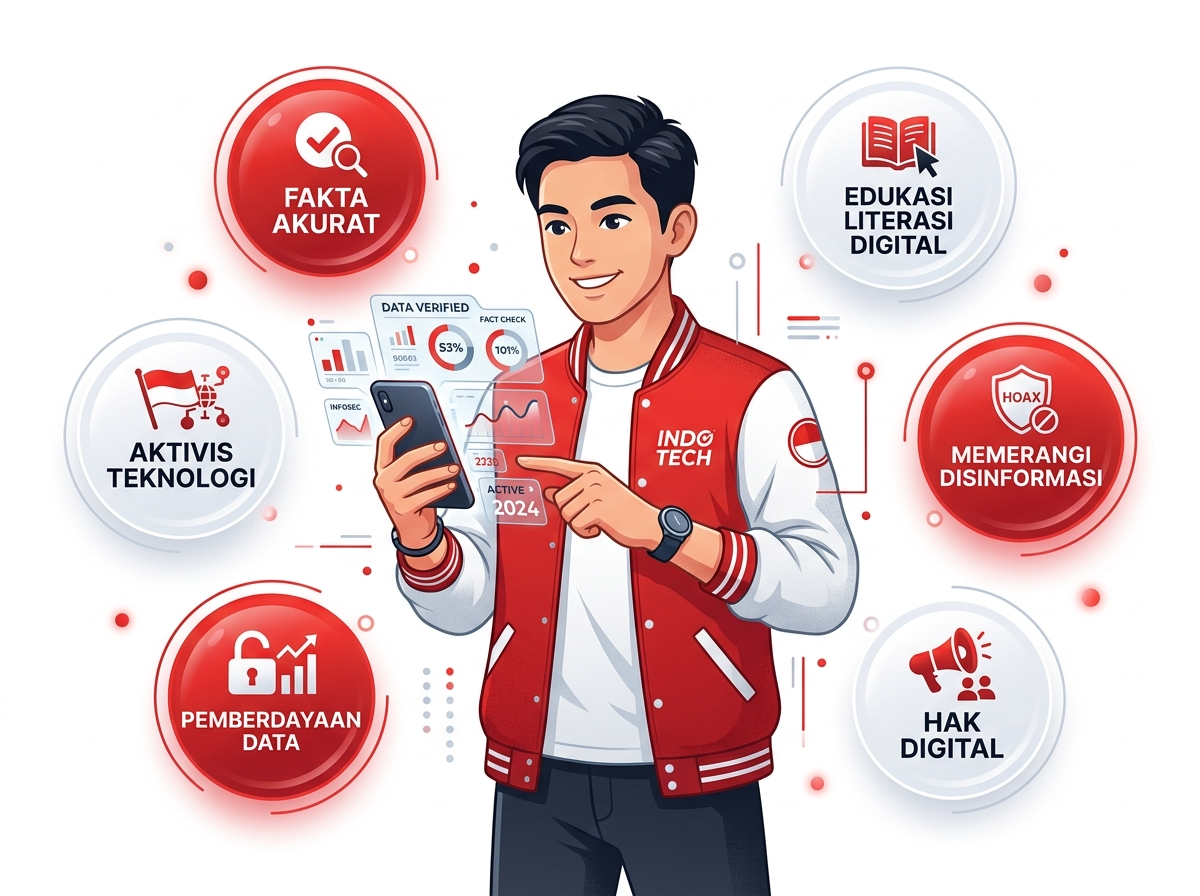
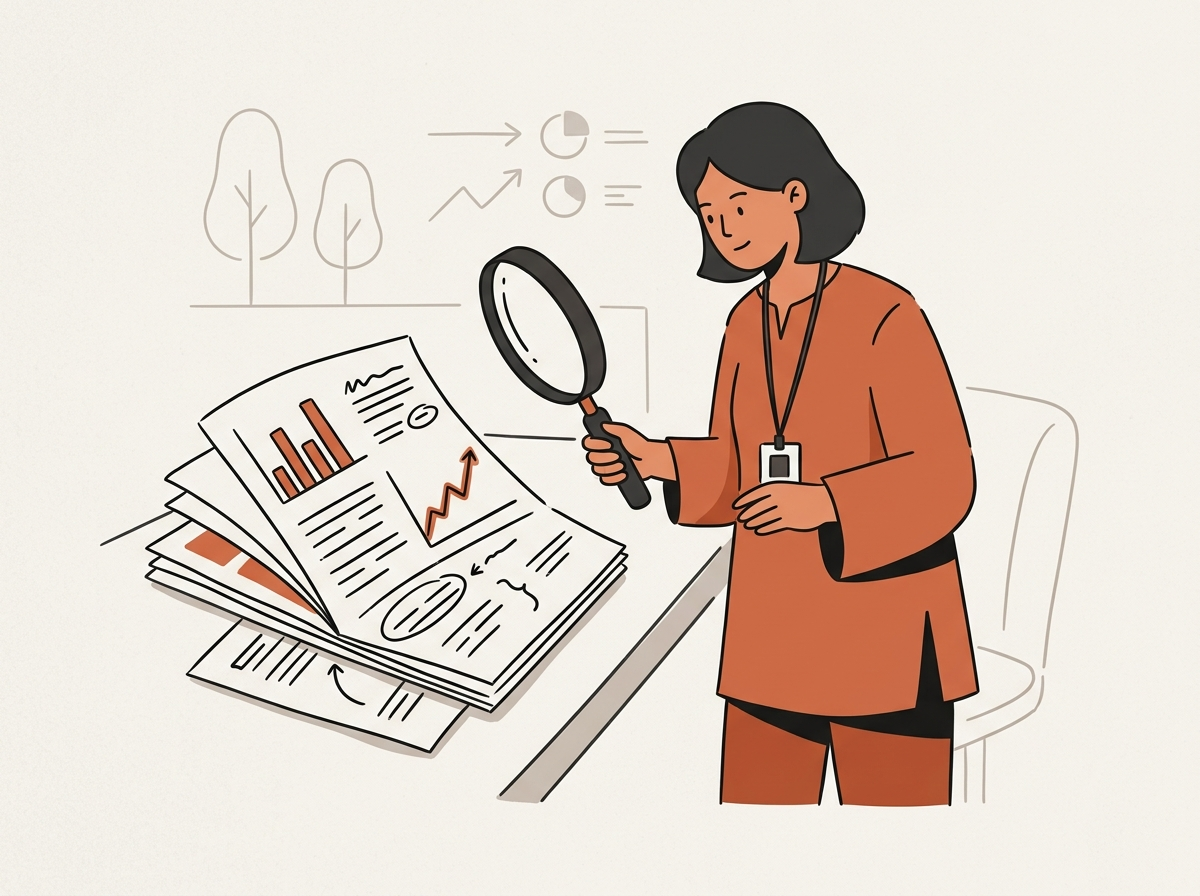
Update Hero Section with smooth 2D flat line-art cartoon doodle illustration in WIUI style

diff --git a/src/components/LandingIntro.jsx b/src/components/LandingIntro.jsx
@@ -1,8 +1,7 @@
 import React, { useState } from 'react';
 import { 
   ArrowRight, CheckCircle2, Database, Brain, FileCheck, 
-  HelpCircle, ChevronDown, ChevronUp, AlertCircle, ShieldCheck,
-  Terminal, Search, FileSpreadsheet, ExternalLink, Play
+  HelpCircle, ChevronDown, ChevronUp, Play
 } from 'lucide-react';
 
 export default function LandingIntro({ onGoToStudio, onOpenPresets }) {
@@ -156,88 +155,28 @@ export default function LandingIntro({ onGoToStudio, onOpenPresets }) {
 
           </div>
 
-          {/* RIGHT COLUMN: PURE VECTOR GRAPHIC DESIGN INTERACTIVE FACT-CHECK WIDGET (NO AI IMAGES!) */}
+          {/* RIGHT COLUMN: FLAT 2D CARTOON LINE-ART DOODLE ILLUSTRATION (WIUI / NOTION EDITORIAL STYLE) */}
           <div className="lg:col-span-5 relative flex justify-center items-center">
             
             {/* Background Tilted Terracotta Orange Block */}
-            <div className="absolute w-80 sm:w-96 h-80 sm:h-96 bg-[#E54624] rounded-3xl rotate-6 shadow-2xl transition-transform duration-300 hover:rotate-3 flex flex-col justify-end p-6">
-              <span className="text-white font-black text-3xl uppercase tracking-tighter leading-tight opacity-90">
-                NYARÈ FAKTA<br />STUDIO v3.4
+            <div className="absolute w-72 sm:w-80 h-72 sm:h-80 bg-[#E54624] rounded-3xl rotate-6 shadow-2xl transition-transform duration-300 hover:rotate-3 flex flex-col justify-end p-6">
+              <span className="text-white font-black text-2xl uppercase tracking-tighter leading-tight">
+                WHAT IS UP,<br />INDONESIA?
               </span>
             </div>
 
-            {/* MAIN GRAPHIC DESIGN FACT CHECK MOCKUP WIDGET (CODE BUILT, NO AI IMAGE) */}
+            {/* MAIN FLAT 2D CARTOON DOODLE IMAGE CARD */}
             <div
               onClick={onGoToStudio}
-              className="relative z-10 w-full max-w-sm sm:max-w-md bg-[#222222] border-2 border-white/20 rounded-3xl overflow-hidden shadow-2xl -rotate-2 hover:rotate-0 transition-all duration-300 cursor-pointer group"
+              className="relative z-10 w-72 sm:w-80 bg-white border-4 border-[#181818] rounded-3xl overflow-hidden shadow-2xl -rotate-3 hover:rotate-0 transition-all duration-300 cursor-pointer group"
             >
-              {/* Window Header Bar */}
-              <div className="bg-[#181818] px-4 py-3 border-b border-white/10 flex items-center justify-between">
-                <div className="flex items-center gap-1.5">
-                  <div className="w-3 h-3 rounded-full bg-red-500/80" />
-                  <div className="w-3 h-3 rounded-full bg-amber-500/80" />
-                  <div className="w-3 h-3 rounded-full bg-emerald-500/80" />
-                </div>
-                <span className="text-[11px] font-mono font-bold text-slate-400">
-                  nyarè-fakta-studio.v3.4
-                </span>
-                <span className="text-[10px] font-black px-2 py-0.5 rounded-full bg-[#E54624] text-white uppercase">
-                  LIVE
-                </span>
-              </div>
-
-              {/* Mockup Body Content */}
-              <div className="p-5 space-y-4">
-                
-                {/* Simulated Netizen Comment Box */}
-                <div className="bg-[#181818] p-3.5 rounded-2xl border border-white/10 space-y-1.5">
-                  <div className="flex items-center justify-between text-[10px] font-black uppercase text-slate-400">
-                    <span>Input Komentar Netizen</span>
-                    <span className="text-[#E54624]">Diuji</span>
-                  </div>
-                  <p className="text-xs text-white font-semibold italic">
-                    "Utang Indonesia tembus 50.000 Triliun dan inflasi 80%, negara siap bangkrut!"
-                  </p>
-                </div>
-
-                {/* Simulated Verification Result Grid */}
-                <div className="grid grid-cols-2 gap-2.5">
-                  <div className="bg-red-500/10 border border-red-500/30 p-3 rounded-xl">
-                    <span className="text-[10px] font-black uppercase text-red-400 block">Status Faktualitas</span>
-                    <span className="text-xs font-black text-red-300 block mt-0.5">HOAKS / BODONG</span>
-                  </div>
-
-                  <div className="bg-amber-500/10 border border-amber-500/30 p-3 rounded-xl">
-                    <span className="text-[10px] font-black uppercase text-amber-400 block">Fallacy Detector</span>
-                    <span className="text-xs font-black text-amber-300 block mt-0.5">Sarkasme Hiperbola</span>
-                  </div>
-                </div>
-
-                {/* Simulated Verified Primary Data Box */}
-                <div className="bg-emerald-950/40 border border-emerald-500/30 p-3.5 rounded-xl space-y-1">
-                  <div className="flex items-center justify-between">
-                    <span className="text-[10px] font-black uppercase text-emerald-400 flex items-center gap-1">
-                      <CheckCircle2 className="w-3.5 h-3.5" />
-                      <span>Data Resmi Yang Benar</span>
-                    </span>
-                    <span className="text-[9px] font-mono text-emerald-300 bg-emerald-900/60 px-2 py-0.5 rounded">
-                      Tier-1 Kemenkeu
-                    </span>
-                  </div>
-                  <p className="text-xs font-bold text-white leading-snug">
-                    Utang resmi tercatat Rp 8.440 Triliun (Rasio PDB 38,6%) & Inflasi BPS 2,13%.
-                  </p>
-                </div>
-
-                {/* Action Footer Button Inside Widget */}
-                <div className="pt-1 flex items-center justify-between text-xs font-black text-[#E54624] group-hover:text-white transition-colors">
-                  <span className="flex items-center gap-1">
-                    <Play className="w-3.5 h-3.5 fill-[#E54624]" />
-                    <span>Klik Untuk Coba Studio Fact-Check</span>
-                  </span>
-                  <ArrowRight className="w-4 h-4 group-hover:translate-x-1 transition-transform" />
-                </div>
-
+              <img
+                src="/assets/hero.jpg"
+                alt="Nyarè Fakta 2D Flat Cartoon Illustration"
+                className="w-full h-auto object-cover group-hover:scale-103 transition-transform duration-500"
+              />
+              <div className="bg-[#181818] p-3 text-center text-xs font-mono font-bold text-slate-300">
+                I see you've found Nyarè Fakta, welcome!
               </div>
             </div>
 
